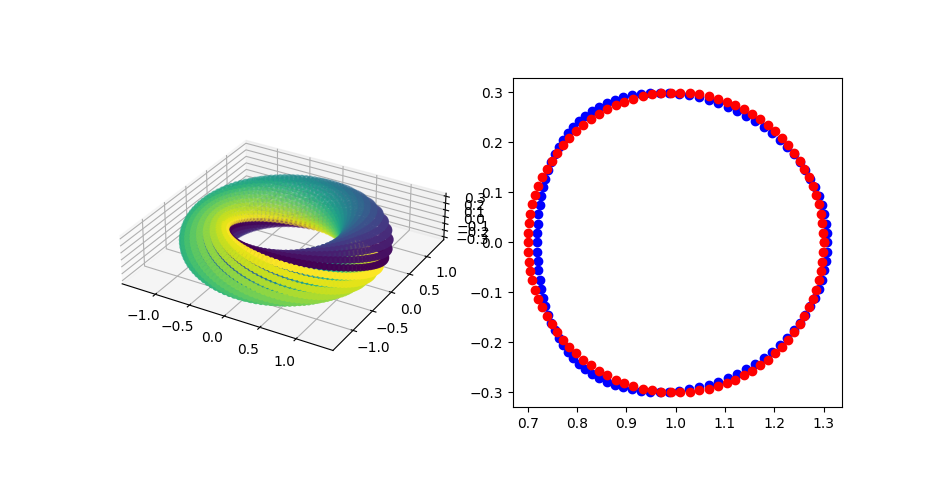
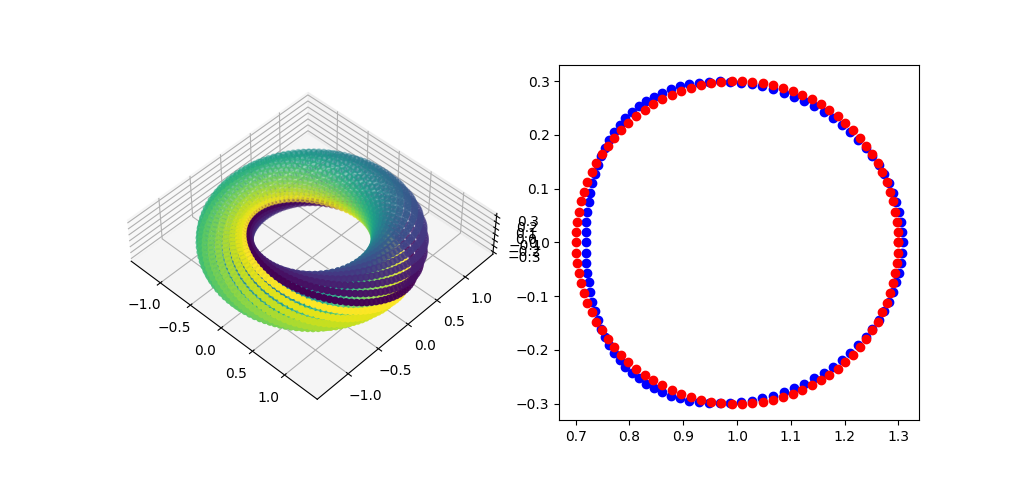
Update Starting Parameters
Changed the starting parameters for the least-squares fit to be almost equal to 1. This seems to give the best fit across all tests. All pictures upgraded to match.

diff --git a/Toroidal_Orbits.py b/Toroidal_Orbits.py
@@ -65,6 +65,9 @@ def generateCrossSection(ellipse, angle, log = False):
         print("plane component shape:", plane_comp.shape)
         print("x-prime component shape:", xp_comp.shape)
     cross_section_pts = np.stack((xp_comp, yp_comp))
+    '''
+    Could this be done in a single operation?
+    '''
     return cross_section_pts
 
 '''
@@ -174,7 +177,7 @@ if(__name__ == "__main__"):
     # Find the difference between our generated ellipse cross-section and the desired cross-section
     #difference = hull_diff(cross_section, desired_cross, log=True)
     if(fitting):
-        best_params = fit_desired(desired_cross, start_minor = 1, start_major = 1.1, start_ang=np.arcsin(outer_radius))
+        best_params = fit_desired(desired_cross, start_minor = 1, start_major = 1.00125, start_ang=np.arcsin(outer_radius))
         print("best parameters:", best_params)
         (min_rad, max_rad, ang) = best_params
         best_ellipse = generateEllipse(min_rad, max_rad)

diff --git a/README.md b/README.md
@@ -14,5 +14,8 @@ Outer Radius of 0.1:
 Outer Radius of 0.3:
 ![medium](/fig_plots/Toroidal_OR_0-3.png "Outer Radius 0.3")
 
+Outer Radius of 0.5:
+![halfway](/fig_plots/Toroidal_OR_0-5.png "Outer Radius 0.5")
+
 Outer Radius of 0.7:
 ![large](/fig_plots/Toroidal_OR_0-7.png "Outer Radius 0.7")
